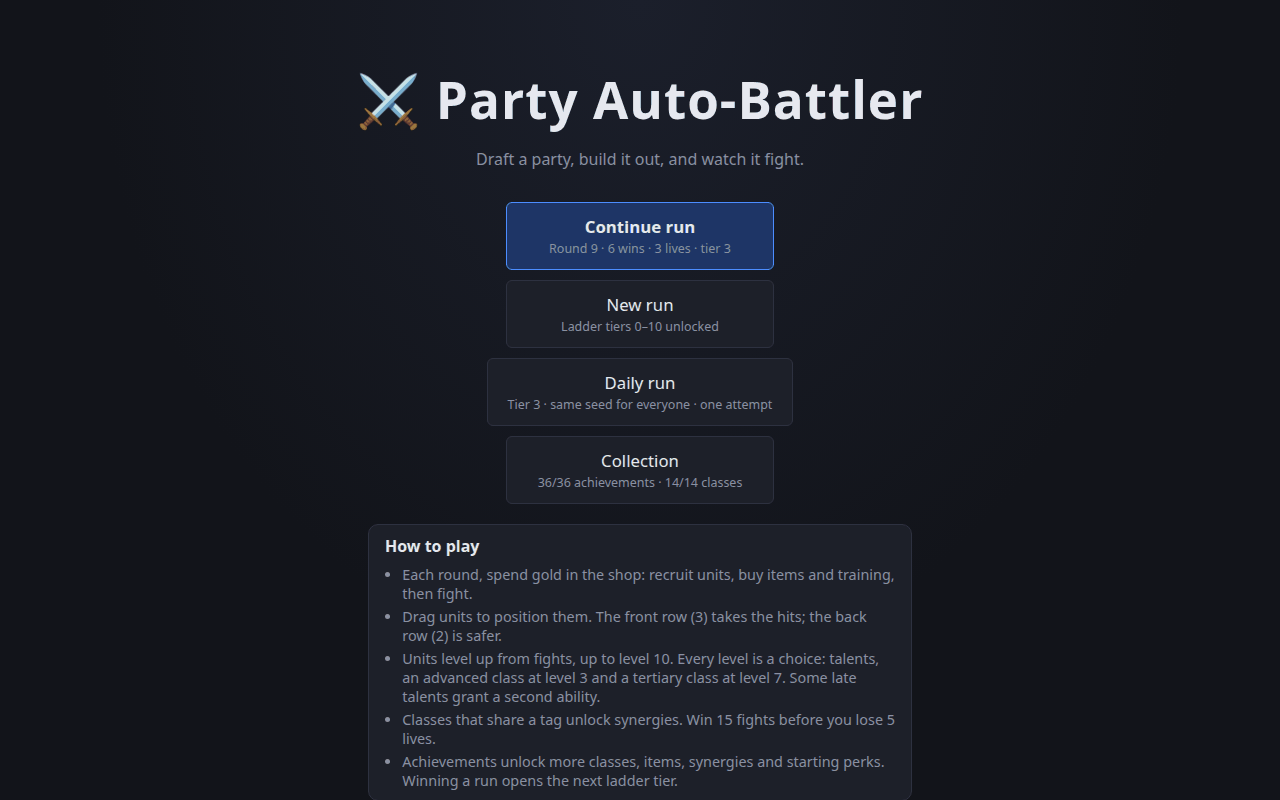
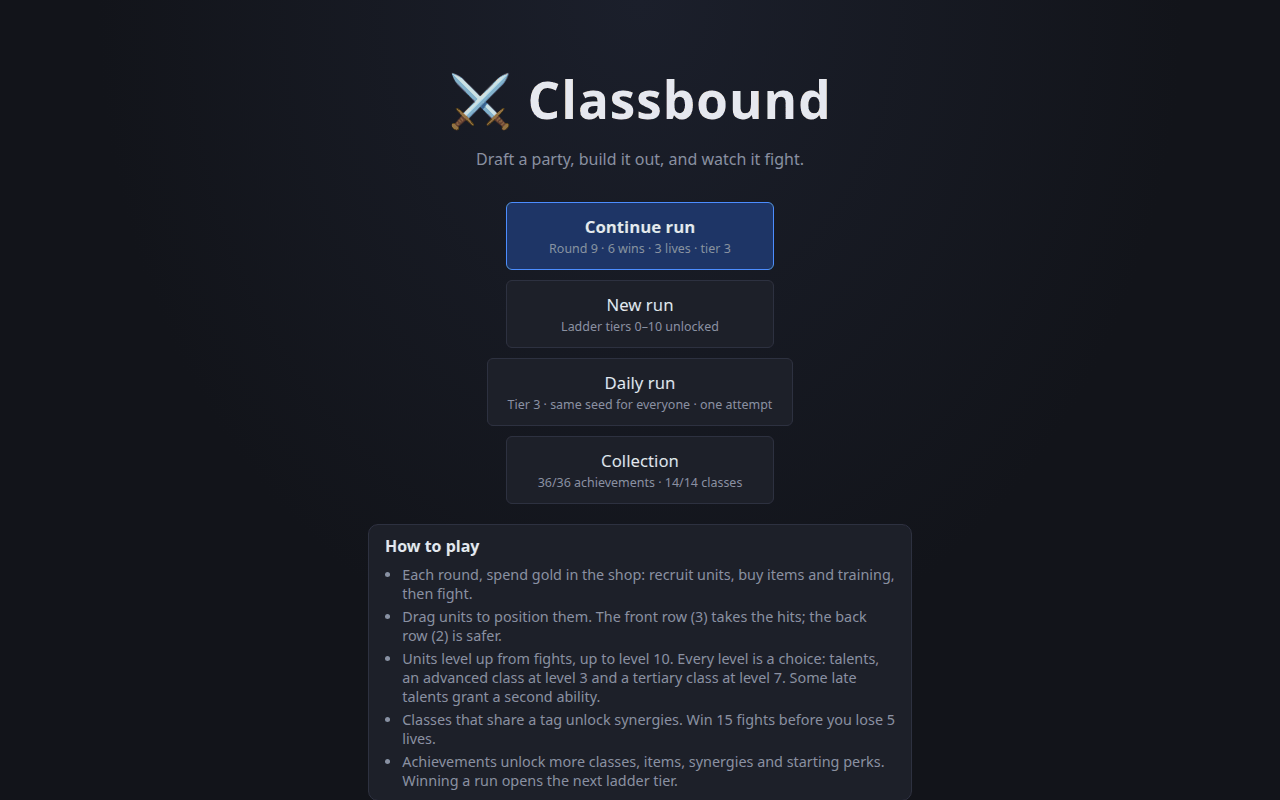
feat: name the game Classbound
Title screen, browser tab, README (with a new title screenshot), CLAUDE.md
and the play-log share title. The repo and site address are unchanged.

Changed region(s): [[0.2812, 0.0938, 0.7188, 0.1562]]

diff --git a/src/ui/game/PlayLogExport.tsx b/src/ui/game/PlayLogExport.tsx
@@ -15,7 +15,7 @@ export function PlayLogExport() {
     const file = new File([text], name, { type: 'text/plain' });
     try {
       if (navigator.canShare?.({ files: [file] })) {
-        await navigator.share({ files: [file], title: 'Party Auto-Battler play log' });
+        await navigator.share({ files: [file], title: 'Classbound play log' });
         return setStatus(`Shared ${runs} run${runs === 1 ? '' : 's'}.`);
       }
     } catch (e) {

diff --git a/src/ui/game/TitleScreen.tsx b/src/ui/game/TitleScreen.tsx
@@ -16,7 +16,7 @@ export function TitleScreen({ game, onOpenLab }: { game: Game; onOpenLab: () => 
   return (
     <div className="screen title-screen">
       <h1 className="game-title">
-        <span aria-hidden>⚔</span> Party Auto-Battler
+        <span aria-hidden>⚔</span> Classbound
       </h1>
       <p className="tagline">Draft a party, build it out, and watch it fight.</p>
       <div className="title-actions">

diff --git a/src/ui/App.test.tsx b/src/ui/App.test.tsx
@@ -6,7 +6,7 @@ import { CombatLab } from './CombatLab.tsx';
 describe('app shell', () => {
   it('opens on the title screen', () => {
     const html = renderToString(<App />);
-    expect(html).toContain('Party Auto-Battler');
+    expect(html).toContain('Classbound');
     expect(html).toContain('New run');
     expect(html).toContain('Combat lab');
   });

diff --git a/index.html b/index.html
@@ -4,7 +4,7 @@
     <meta charset="UTF-8" />
     <meta name="viewport" content="width=device-width, initial-scale=1.0" />
     <meta name="color-scheme" content="dark light" />
-    <title>Party Auto-Battler</title>
+    <title>Classbound</title>
   </head>
   <body>
     <div id="root"></div>

diff --git a/docs/DECISIONS.md b/docs/DECISIONS.md
@@ -8,7 +8,7 @@ Brandon: ship 1.0 as it stands (10 tiers; more tiers and boss changes after rele
 - **README media is captured from the live site,** not a local build, so it doubles as the final check of what players get. The save behind the screenshots comes from a real greedy-bot run (round 9, five different classes, a won fight next), not a hand-built party.
 - **The GIF is the fight at 2x,** 720 px wide with one shared 128-colour palette: about 1.4 MB, small enough for a README. Screenshots are 256-colour PNGs (30–90 KB each).
 - **React is split into its own chunk** (Rolldown `advancedChunks`). It clears the long-standing 500 kB warning, and since React rarely changes, browsers keep it cached across game releases.
-- **Version 1.0.0** in package.json. The title stays "Party Auto-Battler (working title)" until Brandon names it.
+- **Version 1.0.0** in package.json. The title stayed "Party Auto-Battler (working title)" until Brandon named it: he picked **Classbound** after 1.0 shipped. The repo name and site address stay `party-auto-battler` (renaming the repo is a GitHub setting, his to change).
 - **No git tag or GitHub release from Claude Code:** publishing a release is outward-facing, so it's Brandon's call after he merges.
 
 ## 2026-10-31 — Cultist, a second favored class, dev-only testing tools

diff --git a/README.md b/README.md
@@ -1,4 +1,4 @@
-# Party Auto-Battler (working title)
+# Classbound
 
 A browser-playable party auto-battler with RPG classes and builds. You draft a party, position it, equip it and level it up between rounds, then the fight resolves on its own. Think Super Auto Pets or Backpack Battles, with the depth coming from CRPG-style classes, talent choices and advanced-class upgrades.
 

diff --git a/CLAUDE.md b/CLAUDE.md
@@ -1,4 +1,4 @@
-# CLAUDE.md — Party Auto-Battler (working title)
+# CLAUDE.md — Classbound
 
 ## What this project is
 
